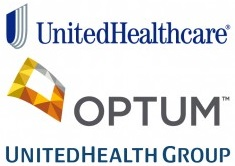
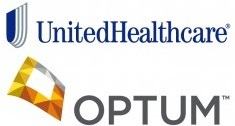
Updated in-network

diff --git a/index.html b/index.html
@@ -262,10 +262,10 @@ body, html {
 	 <a href="https://www.humanamilitary.com/" target="blank"><img src="images/Humana.png" class="w3-round w3-image w3-hover-opacity-off" alt="Humana"> </a>
 	 <a href="https://www.cigna.com/" target="blank"><img src="images/Cigna.png" class="w3-round w3-image w3-hover-opacity-off" alt="Cigna"width="250" height="111"> </a> <br><br>
 	 <a href="https://www.anthem.com/" target="blank"><img src="images/Anthem.png" class="w3-round w3-image w3-hover-opacity-off" alt="Anthem" width="250" height="111"> </a>
+   <a href="https://www.uhc.com/" target="blank"><img src="images/Optum.jpg" class="w3-round w3-image w3-hover-opacity-off" alt="Optum"width="250" height="111"> </a>
 
-	 <p>Coming Soon: United, Aetna</p>
-	 <a href="https://www.uhc.com/" target="blank"><img src="images/Optum.jpg" class="w3-round w3-image w3-hover-opacity-off" alt="Optum"width="250" height="111"> </a>
-	 <a href="https://www.aetna.com/" target="blank"><img src="images/aetna.png" class="w3-round w3-image w3-hover-opacity-off" alt="Aetna"width="250" height="111"> </a>
+	 <p>Coming Soon: Aetna</p>
+   <a href="https://www.aetna.com/" target="blank"><img src="images/aetna.png" class="w3-round w3-image w3-hover-opacity-off" alt="Aetna"width="250" height="111"> </a>
 
 
     </div>
